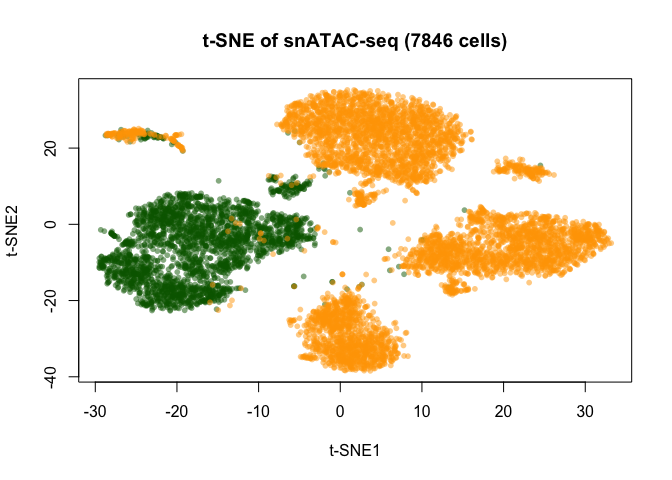
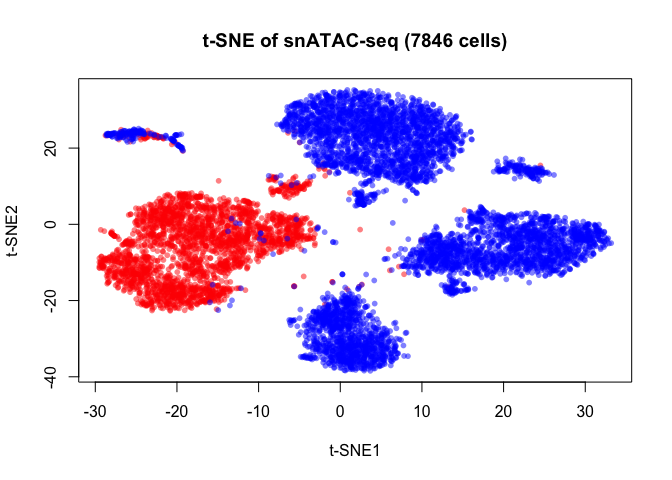
update

diff --git a/README.md b/README.md
@@ -310,10 +310,12 @@ dim(bmat_svd_vd)
 Tune t-SNE by selecting lowest KL divergence:
 
 ``` r
+# Run 9 t-SNE iterations and plot
 tsne_svd <- vector("list", 9)
 KL <- numeric()
 par(mfrow=c(3,3))
 set.seed(524)
+col <- c(rep("red", 2577), rep("blue", 5269))
 for (i in 1:9){
   mat <- Rtsne(bmat_svd_vd, dims = 2, perplexity = 30, verbose = TRUE, 
                max_iter = 1000, check_duplicates = FALSE, is_distance = FALSE, 
@@ -328,9 +330,12 @@ best_tsne <- tsne_svd[[which.min(KL)]] # lowest KL
 write.csv(best_tsne, "./Bmat_tfidf_svd_tsne_best_v1+2_distal.csv")
 ```
 
+You will see something like this: ![Alt
+text](/Volumes/Jay_SSD/Wahl_lab/Bioinformatics/2018-08-03_snATAC_mammary/090418_second_run_combined/Git/snATAC/README_files/figure-gfm/Bmat_tfidf_SVD_tSNE_v12_distal_tune_bottom10rm.png)
+
 ``` r
 best_tsne <- read.csv("./Bmat_tfidf_svd_tsne_best_v1+2_distal.csv", row.names = 1)
-col <- c(rep("darkgreen", 2577), rep("orange", 5269)) # Fetal in green, adult in orange
+col <- c(rep("red", 2577), rep("blue", 5269)) # Fetal in red, adult in blue
 plot(best_tsne, cex = 0.8, pch = 16, xlab = "t-SNE1", ylab = "t-SNE2", 
      main = "t-SNE of snATAC-seq (7846 cells)", col = alpha(col, 0.5))
 ```
